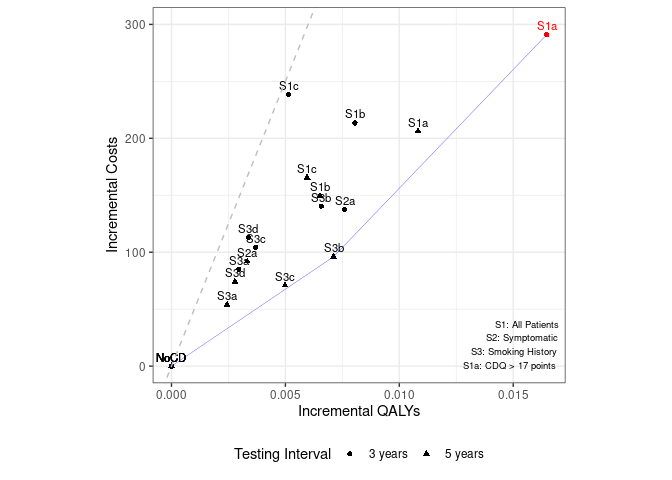
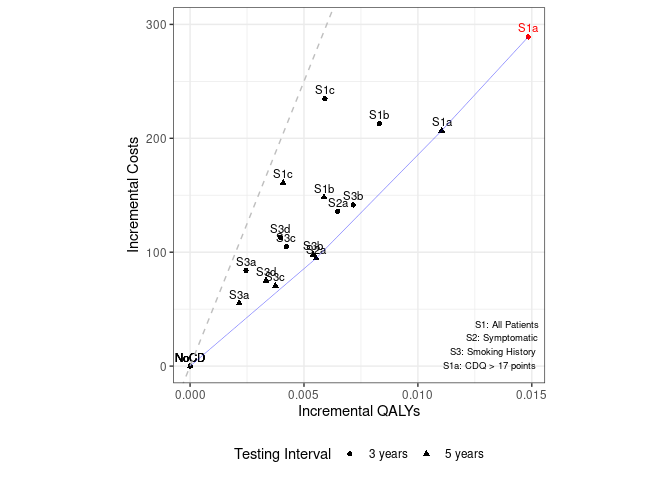
feat(reproduction): process results from 100 million base case

diff --git a/reproduction/scripts/Process_Model_Results.md b/reproduction/scripts/Process_Model_Results.md
@@ -1,6 +1,6 @@
 Process Model Results
 ================
-14 October, 2024
+15 October, 2024
 
 This file processes the model results so they match up as closely as
 possible to those in the publication.
@@ -69,30 +69,30 @@ rbind(ceplane_3y, ceplane_5y) %>%
 
 <div class="kable-table">
 
-| Scenario  |   Agents | PropAgents |        Cost | CostpAgent | CostpAgentExcluded | CostpAgentAll |      QALY | QALYpAgent | QALYpAgentExcluded | QALYpAgentAll | IncrementalCosts | IncrementalQALY |  ICERAdj |     ICER |        INMB | Interval |
-|:----------|---------:|-----------:|------------:|-----------:|-------------------:|--------------:|----------:|-----------:|-------------------:|--------------:|-----------------:|----------------:|---------:|---------:|------------:|:---------|
-| S1NoCDAvg | 37197054 |  1.0000000 | 79930541441 |   2148.841 |              0.000 |      2148.841 | 466645458 |   12.54523 |            0.00000 |      12.54523 |          0.00000 |       0.0000000 |       NA |       NA |   0.0000000 | 3 years  |
-| S1NoCDAvg | 37197054 |  1.0000000 | 79930541441 |   2148.841 |              0.000 |      2148.841 | 466645458 |   12.54523 |            0.00000 |      12.54523 |          0.00000 |       0.0000000 |       NA |       NA |   0.0000000 | 5 years  |
-| S1a       | 37195779 |  1.0000000 | 90753454326 |   2439.886 |              0.000 |      2439.886 | 467242138 |   12.56170 |            0.00000 |      12.56170 |        291.04522 |       0.0164718 | 17669.33 | 17116.09 | 532.5435790 | 3 years  |
-| S1a       | 37197502 |  1.0000000 | 87609315426 |   2355.247 |              0.000 |      2355.247 | 467053611 |   12.55605 |            0.00000 |      12.55605 |        206.40667 |       0.0108217 | 19073.48 | 20089.64 | 334.6763156 | 5 years  |
-| S1b       | 37200476 |  1.0000000 | 87878153022 |   2362.286 |              0.000 |      2362.286 | 466988044 |   12.55328 |            0.00000 |      12.55328 |        213.44510 |       0.0080553 | 26497.34 | 24764.46 | 189.3218597 | 3 years  |
-| S1b       | 37190655 |  1.0000000 | 85474784067 |   2298.287 |              0.000 |      2298.287 | 466807667 |   12.55175 |            0.00000 |      12.55175 |        149.44599 |       0.0065202 | 22920.31 | 25093.04 | 176.5661465 | 5 years  |
-| S1c       | 37192813 |  1.0000000 | 88797560537 |   2387.492 |              0.000 |      2387.492 | 466783360 |   12.55036 |            0.00000 |      12.55036 |        238.65184 |       0.0051384 | 46444.60 | 41646.33 |  18.2691463 | 3 years  |
-| S1c       | 37195162 |  1.0000000 | 86086185363 |   2314.446 |              0.000 |      2314.446 | 466843147 |   12.55118 |            0.00000 |      12.55118 |        165.60516 |       0.0059532 | 27817.85 | 30805.50 | 132.0547739 | 5 years  |
-| S2NoCD    | 22078563 |  0.5935568 | 58731887921 |   2660.132 |           1402.167 |      2148.841 | 270917818 |   12.27063 |           12.94624 |      12.54523 |          0.00000 |       0.0000000 |       NA |       NA |   0.0084027 | 3 years  |
-| S2NoCD    | 22074342 |  0.5934433 | 58922537505 |   2669.277 |           1389.169 |      2148.841 | 270895360 |   12.27196 |           12.94411 |      12.54523 |          0.00000 |       0.0000000 |       NA |       NA |   0.0084027 | 5 years  |
-| S2a       | 22077788 |  0.5935359 | 63840415723 |   2891.613 |           1402.167 |      2286.207 | 271190365 |   12.28340 |           12.94624 |      12.55282 |        137.36611 |       0.0075969 | 18081.98 | 18119.00 | 242.4848714 | 3 years  |
-| S2a       | 22077777 |  0.5935356 | 62347138314 |   2823.977 |           1389.169 |      2240.779 | 271063504 |   12.27766 |           12.94411 |      12.54855 |         91.93817 |       0.0033250 | 27650.44 | 27108.82 |  74.3210751 | 5 years  |
-| S3NoCD    | 17243525 |  0.4635723 | 49933527334 |   2895.784 |           1503.344 |      2148.841 | 193676014 |   11.23181 |           13.68026 |      12.54523 |          0.00000 |       0.0000000 |       NA |       NA |   0.0084027 | 3 years  |
-| S3NoCD    | 17254548 |  0.4638687 | 50064966233 |   2901.552 |           1497.584 |      2148.841 | 193797357 |   11.23167 |           13.68174 |      12.54523 |          0.00000 |       0.0000000 |       NA |       NA |   0.0084027 | 5 years  |
-| S3a       | 17245589 |  0.4636278 | 53097071421 |   3078.878 |           1503.344 |      2233.805 | 193814317 |   11.23849 |           13.68026 |      12.54819 |         84.96483 |       0.0029590 | 28713.97 | 27428.51 |  62.9938915 | 3 years  |
-| S3a       | 17251608 |  0.4637896 | 52066304895 |   3018.055 |           1497.584 |      2202.763 | 193847860 |   11.23651 |           13.68174 |      12.54767 |         53.92205 |       0.0024391 | 22107.45 | 24063.44 |  68.0408589 | 5 years  |
-| S3b       | 17248093 |  0.4636951 | 55163743515 |   3198.252 |           1503.344 |      2289.264 | 193983110 |   11.24664 |           13.68026 |      12.55180 |        140.42373 |       0.0065759 | 21354.32 | 20395.72 | 188.3794023 | 3 years  |
-| S3b       | 17246874 |  0.4636624 | 53626126689 |   3109.324 |           1497.584 |      2244.887 | 193956939 |   11.24592 |           13.68174 |      12.55234 |         96.04666 |       0.0071128 | 13503.33 | 14580.18 | 259.6024694 | 5 years  |
-| S3c       | 17249568 |  0.4637348 | 53820717606 |   3120.120 |           1503.344 |      2253.099 | 193896397 |   11.24065 |           13.68026 |      12.54893 |        104.25841 |       0.0037023 | 28160.79 | 25373.54 |  80.8627246 | 3 years  |
-| S3c       | 17246125 |  0.4636422 | 52687996543 |   3055.063 |           1497.584 |      2219.697 | 193867414 |   11.24122 |           13.68174 |      12.55021 |         70.85627 |       0.0049815 | 14223.79 | 16078.26 | 178.2287927 | 5 years  |
-| S3d       | 17250373 |  0.4637564 | 54140141633 |   3138.491 |           1503.344 |      2261.654 | 193895422 |   11.24007 |           13.68026 |      12.54861 |        112.81322 |       0.0033800 | 33376.80 | 29382.46 |  56.1946409 | 3 years  |
-| S3d       | 17255729 |  0.4639004 | 52823751959 |   3061.230 |           1497.584 |      2222.960 | 193917114 |   11.23784 |           13.68174 |      12.54801 |         74.11923 |       0.0027851 | 26612.42 | 25873.76 |  65.1460215 | 5 years  |
+| Scenario  |   Agents | PropAgents |         Cost | CostpAgent | CostpAgentExcluded | CostpAgentAll |      QALY | QALYpAgent | QALYpAgentExcluded | QALYpAgentAll | IncrementalCosts | IncrementalQALY |  ICERAdj |     ICER |      INMB | Interval |
+|:----------|---------:|-----------:|-------------:|-----------:|-------------------:|--------------:|----------:|-----------:|-------------------:|--------------:|-----------------:|----------------:|---------:|---------:|----------:|:---------|
+| S1NoCDAvg | 74388586 |  1.0000000 | 159925565707 |   2149.867 |              0.000 |      2149.867 | 933240063 |   12.54547 |            0.00000 |      12.54547 |          0.00000 |       0.0000000 |       NA |       NA |   0.00000 | 3 years  |
+| S1NoCDAvg | 74388586 |  1.0000000 | 159925565707 |   2149.867 |              0.000 |      2149.867 | 933240063 |   12.54547 |            0.00000 |      12.54547 |          0.00000 |       0.0000000 |       NA |       NA |   0.00000 | 5 years  |
+| S1a       | 74380275 |  1.0000000 | 181401075128 |   2438.833 |              0.000 |      2438.833 | 934239602 |   12.56031 |            0.00000 |      12.56031 |        288.96609 |       0.0148400 | 19472.10 | 19152.73 | 453.03421 | 3 years  |
+| S1a       | 74386318 |  1.0000000 | 175298229824 |   2356.592 |              0.000 |      2356.592 | 934033198 |   12.55652 |            0.00000 |      12.55652 |        206.72538 |       0.0110449 | 18716.85 | 19145.74 | 345.51881 | 5 years  |
+| S1b       | 74383024 |  1.0000000 | 175747140584 |   2362.732 |              0.000 |      2362.732 | 933787724 |   12.55377 |            0.00000 |      12.55377 |        212.86487 |       0.0083008 | 25643.89 | 24838.02 | 202.17518 | 3 years  |
+| S1b       | 74385413 |  1.0000000 | 170952563916 |   2298.200 |              0.000 |      2298.200 | 933637487 |   12.55135 |            0.00000 |      12.55135 |        148.33311 |       0.0058779 | 25235.73 | 26468.96 | 145.56189 | 5 years  |
+| S1c       | 74393892 |  1.0000000 | 177409072797 |   2384.726 |              0.000 |      2384.726 | 933746980 |   12.55139 |            0.00000 |      12.55139 |        234.85933 |       0.0059192 | 39677.70 | 37796.70 |  61.09955 | 3 years  |
+| S1c       | 74390720 |  1.0000000 | 171904343832 |   2310.830 |              0.000 |      2310.830 | 933570750 |   12.54956 |            0.00000 |      12.54956 |        160.96350 |       0.0040854 | 39399.80 | 42521.81 |  43.30591 | 5 years  |
+| S2NoCD    | 44156404 |  0.5935911 | 117605933755 |   2663.395 |           1399.821 |      2149.867 | 541859031 |   12.27136 |           12.94584 |      12.54547 |          0.00000 |       0.0000000 |       NA |       NA |   0.00000 | 3 years  |
+| S2NoCD    | 44157029 |  0.5935995 | 117807957835 |   2667.932 |           1393.167 |      2149.867 | 541828917 |   12.27050 |           12.94711 |      12.54547 |          0.00000 |       0.0000000 |       NA |       NA |   0.00000 | 5 years  |
+| S2a       | 44164773 |  0.5937036 | 127735308298 |   2892.244 |           1399.821 |      2285.878 | 542449119 |   12.28239 |           12.94584 |      12.55195 |        136.01091 |       0.0064761 | 21002.14 | 20737.20 | 187.79161 | 3 years  |
+| S2a       | 44154576 |  0.5935665 | 124844786047 |   2827.448 |           1393.167 |      2244.508 | 542208652 |   12.27978 |           12.94711 |      12.55101 |         94.64148 |       0.0055317 | 17108.96 | 17185.88 | 181.94301 | 5 years  |
+| S3NoCD    | 34500334 |  0.4637853 |  99842281258 |   2893.951 |           1506.290 |      2149.867 | 387517176 |   11.23227 |           13.68129 |      12.54547 |          0.00000 |       0.0000000 |       NA |       NA |   0.00000 | 3 years  |
+| S3NoCD    | 34491937 |  0.4636724 |  99999943602 |   2899.227 |           1502.021 |      2149.867 | 387401839 |   11.23166 |           13.68131 |      12.54547 |          0.00000 |       0.0000000 |       NA |       NA |   0.00000 | 5 years  |
+| S3a       | 34507415 |  0.4638805 | 106095806862 |   3074.580 |           1506.290 |      2233.789 | 387796823 |   11.23807 |           13.68129 |      12.54793 |         83.92228 |       0.0024570 | 34156.94 | 31147.82 |  38.92579 | 3 years  |
+| S3a       | 34494037 |  0.4637007 | 104115381916 |   3018.359 |           1502.021 |      2205.148 | 387590904 |   11.23646 |           13.68131 |      12.54763 |         55.28112 |       0.0021554 | 25648.14 | 24833.08 |  52.48718 | 5 years  |
+| S3b       | 34499539 |  0.4637746 | 110363699543 |   3198.991 |           1506.290 |      2291.322 | 388038736 |   11.24765 |           13.68129 |      12.55263 |        141.45471 |       0.0071575 | 19763.12 | 19837.73 | 216.42072 | 3 years  |
+| S3b       | 34509196 |  0.4639044 | 107308147373 |   3109.552 |           1502.021 |      2247.762 | 388040453 |   11.24455 |           13.68131 |      12.55088 |         97.89513 |       0.0054106 | 18093.14 | 16319.03 | 172.63598 | 5 years  |
+| S3c       | 34496334 |  0.4637315 | 107627143927 |   3119.959 |           1506.290 |      2254.599 | 387776879 |   11.24110 |           13.68129 |      12.54970 |        104.73230 |       0.0042268 | 24777.92 | 25592.93 | 106.60970 | 3 years  |
+| S3c       | 34504471 |  0.4638409 | 105270593424 |   3050.926 |           1502.021 |      2220.467 | 387852045 |   11.24063 |           13.68131 |      12.54922 |         70.59986 |       0.0037469 | 18842.32 | 16916.05 | 116.74399 | 5 years  |
+| S3d       | 34507664 |  0.4638839 | 108255487965 |   3137.143 |           1506.290 |      2262.817 | 387911628 |   11.24132 |           13.68129 |      12.54943 |        112.94966 |       0.0039545 | 28562.49 | 26887.15 |  84.77408 | 3 years  |
+| S3d       | 34501231 |  0.4637974 | 105602366018 |   3060.829 |           1502.021 |      2224.992 | 387776869 |   11.23951 |           13.68131 |      12.54881 |         75.12527 |       0.0033322 | 22545.40 | 20600.86 |  91.48361 | 5 years  |
 
 </div>
 
@@ -115,25 +115,25 @@ ceplane %>% arrange(Scenario)
 
 <div class="kable-table">
 
-| Scenario  |   Agents | PropAgents |        Cost | CostpAgent | CostpAgentExcluded | CostpAgentAll |      QALY | QALYpAgent | QALYpAgentExcluded | QALYpAgentAll | IncrementalCosts | IncrementalQALY |  ICERAdj |     ICER |      INMB | Interval | Ranking |
-|:----------|---------:|-----------:|------------:|-----------:|-------------------:|--------------:|----------:|-----------:|-------------------:|--------------:|-----------------:|----------------:|---------:|---------:|----------:|:---------|--------:|
-| S1NoCDAvg | 37197054 |  1.0000000 | 79930541441 |   2148.841 |              0.000 |      2148.841 | 466645458 |   12.54523 |            0.00000 |      12.54523 |          0.00000 |       0.0000000 |       NA |       NA |        NA | NA       |      NA |
-| S1a       | 37195779 |  1.0000000 | 90753454326 |   2439.886 |              0.000 |      2439.886 | 467242138 |   12.56170 |            0.00000 |      12.56170 |        291.04522 |       0.0164718 | 17669.33 | 17116.09 | 532.54358 | 3 years  |       1 |
-| S1a       | 37197502 |  1.0000000 | 87609315426 |   2355.247 |              0.000 |      2355.247 | 467053611 |   12.55605 |            0.00000 |      12.55605 |        206.40667 |       0.0108217 | 19073.48 | 20089.64 | 334.67632 | 5 years  |       2 |
-| S1b       | 37200476 |  1.0000000 | 87878153022 |   2362.286 |              0.000 |      2362.286 | 466988044 |   12.55328 |            0.00000 |      12.55328 |        213.44510 |       0.0080553 | 26497.34 | 24764.46 | 189.32186 | 3 years  |       5 |
-| S1b       | 37190655 |  1.0000000 | 85474784067 |   2298.287 |              0.000 |      2298.287 | 466807667 |   12.55175 |            0.00000 |      12.55175 |        149.44599 |       0.0065202 | 22920.31 | 25093.04 | 176.56615 | 5 years  |       8 |
-| S1c       | 37192813 |  1.0000000 | 88797560537 |   2387.492 |              0.000 |      2387.492 | 466783360 |   12.55036 |            0.00000 |      12.55036 |        238.65184 |       0.0051384 | 46444.60 | 41646.33 |  18.26915 | 3 years  |      16 |
-| S1c       | 37195162 |  1.0000000 | 86086185363 |   2314.446 |              0.000 |      2314.446 | 466843147 |   12.55118 |            0.00000 |      12.55118 |        165.60516 |       0.0059532 | 27817.85 | 30805.50 | 132.05477 | 5 years  |       9 |
-| S2a       | 22077788 |  0.5935359 | 63840415723 |   2891.613 |           1402.167 |      2286.207 | 271190365 |   12.28340 |           12.94624 |      12.55282 |        137.36611 |       0.0075969 | 18081.98 | 18119.00 | 242.48487 | 3 years  |       4 |
-| S2a       | 22077777 |  0.5935356 | 62347138314 |   2823.977 |           1389.169 |      2240.779 | 271063504 |   12.27766 |           12.94411 |      12.54855 |         91.93817 |       0.0033250 | 27650.44 | 27108.82 |  74.32108 | 5 years  |      11 |
-| S3a       | 17245589 |  0.4636278 | 53097071421 |   3078.878 |           1503.344 |      2233.805 | 193814317 |   11.23849 |           13.68026 |      12.54819 |         84.96483 |       0.0029590 | 28713.97 | 27428.51 |  62.99389 | 3 years  |      14 |
-| S3a       | 17251608 |  0.4637896 | 52066304895 |   3018.055 |           1497.584 |      2202.763 | 193847860 |   11.23651 |           13.68174 |      12.54767 |         53.92205 |       0.0024391 | 22107.45 | 24063.44 |  68.04086 | 5 years  |      12 |
-| S3b       | 17248093 |  0.4636951 | 55163743515 |   3198.252 |           1503.344 |      2289.264 | 193983110 |   11.24664 |           13.68026 |      12.55180 |        140.42373 |       0.0065759 | 21354.32 | 20395.72 | 188.37940 | 3 years  |       6 |
-| S3b       | 17246874 |  0.4636624 | 53626126689 |   3109.324 |           1497.584 |      2244.887 | 193956939 |   11.24592 |           13.68174 |      12.55234 |         96.04666 |       0.0071128 | 13503.33 | 14580.18 | 259.60247 | 5 years  |       3 |
-| S3c       | 17249568 |  0.4637348 | 53820717606 |   3120.120 |           1503.344 |      2253.099 | 193896397 |   11.24065 |           13.68026 |      12.54893 |        104.25841 |       0.0037023 | 28160.79 | 25373.54 |  80.86272 | 3 years  |      10 |
-| S3c       | 17246125 |  0.4636422 | 52687996543 |   3055.063 |           1497.584 |      2219.697 | 193867414 |   11.24122 |           13.68174 |      12.55021 |         70.85627 |       0.0049815 | 14223.79 | 16078.26 | 178.22879 | 5 years  |       7 |
-| S3d       | 17250373 |  0.4637564 | 54140141633 |   3138.491 |           1503.344 |      2261.654 | 193895422 |   11.24007 |           13.68026 |      12.54861 |        112.81322 |       0.0033800 | 33376.80 | 29382.46 |  56.19464 | 3 years  |      15 |
-| S3d       | 17255729 |  0.4639004 | 52823751959 |   3061.230 |           1497.584 |      2222.960 | 193917114 |   11.23784 |           13.68174 |      12.54801 |         74.11923 |       0.0027851 | 26612.42 | 25873.76 |  65.14602 | 5 years  |      13 |
+| Scenario  |   Agents | PropAgents |         Cost | CostpAgent | CostpAgentExcluded | CostpAgentAll |      QALY | QALYpAgent | QALYpAgentExcluded | QALYpAgentAll | IncrementalCosts | IncrementalQALY |  ICERAdj |     ICER |      INMB | Interval | Ranking |
+|:----------|---------:|-----------:|-------------:|-----------:|-------------------:|--------------:|----------:|-----------:|-------------------:|--------------:|-----------------:|----------------:|---------:|---------:|----------:|:---------|--------:|
+| S1NoCDAvg | 74388586 |  1.0000000 | 159925565707 |   2149.867 |              0.000 |      2149.867 | 933240063 |   12.54547 |            0.00000 |      12.54547 |          0.00000 |       0.0000000 |       NA |       NA |        NA | NA       |      NA |
+| S1a       | 74380275 |  1.0000000 | 181401075128 |   2438.833 |              0.000 |      2438.833 | 934239602 |   12.56031 |            0.00000 |      12.56031 |        288.96609 |       0.0148400 | 19472.10 | 19152.73 | 453.03421 | 3 years  |       1 |
+| S1a       | 74386318 |  1.0000000 | 175298229824 |   2356.592 |              0.000 |      2356.592 | 934033198 |   12.55652 |            0.00000 |      12.55652 |        206.72538 |       0.0110449 | 18716.85 | 19145.74 | 345.51881 | 5 years  |       2 |
+| S1b       | 74383024 |  1.0000000 | 175747140584 |   2362.732 |              0.000 |      2362.732 | 933787724 |   12.55377 |            0.00000 |      12.55377 |        212.86487 |       0.0083008 | 25643.89 | 24838.02 | 202.17518 | 3 years  |       4 |
+| S1b       | 74385413 |  1.0000000 | 170952563916 |   2298.200 |              0.000 |      2298.200 | 933637487 |   12.55135 |            0.00000 |      12.55135 |        148.33311 |       0.0058779 | 25235.73 | 26468.96 | 145.56189 | 5 years  |       8 |
+| S1c       | 74393892 |  1.0000000 | 177409072797 |   2384.726 |              0.000 |      2384.726 | 933746980 |   12.55139 |            0.00000 |      12.55139 |        234.85933 |       0.0059192 | 39677.70 | 37796.70 |  61.09955 | 3 years  |      13 |
+| S1c       | 74390720 |  1.0000000 | 171904343832 |   2310.830 |              0.000 |      2310.830 | 933570750 |   12.54956 |            0.00000 |      12.54956 |        160.96350 |       0.0040854 | 39399.80 | 42521.81 |  43.30591 | 5 years  |      15 |
+| S2a       | 44164773 |  0.5937036 | 127735308298 |   2892.244 |           1399.821 |      2285.878 | 542449119 |   12.28239 |           12.94584 |      12.55195 |        136.01091 |       0.0064761 | 21002.14 | 20737.20 | 187.79161 | 3 years  |       5 |
+| S2a       | 44154576 |  0.5935665 | 124844786047 |   2827.448 |           1393.167 |      2244.508 | 542208652 |   12.27978 |           12.94711 |      12.55101 |         94.64148 |       0.0055317 | 17108.96 | 17185.88 | 181.94301 | 5 years  |       6 |
+| S3a       | 34507415 |  0.4638805 | 106095806862 |   3074.580 |           1506.290 |      2233.789 | 387796823 |   11.23807 |           13.68129 |      12.54793 |         83.92228 |       0.0024570 | 34156.94 | 31147.82 |  38.92579 | 3 years  |      16 |
+| S3a       | 34494037 |  0.4637007 | 104115381916 |   3018.359 |           1502.021 |      2205.148 | 387590904 |   11.23646 |           13.68131 |      12.54763 |         55.28112 |       0.0021554 | 25648.14 | 24833.08 |  52.48718 | 5 years  |      14 |
+| S3b       | 34499539 |  0.4637746 | 110363699543 |   3198.991 |           1506.290 |      2291.322 | 388038736 |   11.24765 |           13.68129 |      12.55263 |        141.45471 |       0.0071575 | 19763.12 | 19837.73 | 216.42072 | 3 years  |       3 |
+| S3b       | 34509196 |  0.4639044 | 107308147373 |   3109.552 |           1502.021 |      2247.762 | 388040453 |   11.24455 |           13.68131 |      12.55088 |         97.89513 |       0.0054106 | 18093.14 | 16319.03 | 172.63598 | 5 years  |       7 |
+| S3c       | 34496334 |  0.4637315 | 107627143927 |   3119.959 |           1506.290 |      2254.599 | 387776879 |   11.24110 |           13.68129 |      12.54970 |        104.73230 |       0.0042268 | 24777.92 | 25592.93 | 106.60970 | 3 years  |      10 |
+| S3c       | 34504471 |  0.4638409 | 105270593424 |   3050.926 |           1502.021 |      2220.467 | 387852045 |   11.24063 |           13.68131 |      12.54922 |         70.59986 |       0.0037469 | 18842.32 | 16916.05 | 116.74399 | 5 years  |       9 |
+| S3d       | 34507664 |  0.4638839 | 108255487965 |   3137.143 |           1506.290 |      2262.817 | 387911628 |   11.24132 |           13.68129 |      12.54943 |        112.94966 |       0.0039545 | 28562.49 | 26887.15 |  84.77408 | 3 years  |      12 |
+| S3d       | 34501231 |  0.4637974 | 105602366018 |   3060.829 |           1502.021 |      2224.992 | 387776869 |   11.23951 |           13.68131 |      12.54881 |         75.12527 |       0.0033322 | 22545.40 | 20600.86 |  91.48361 | 5 years  |      11 |
 
 </div>
 
@@ -181,23 +181,23 @@ ceplane_pretty
 
 | Scenario                         | Testing interval | Costs per patient | QALYs per patient |  ICER | INMB (ranking) |
 |:---------------------------------|:-----------------|:------------------|------------------:|------:|:---------------|
-| S0: No case detection            | NA               | \$2149            |            12.545 |    NA | NA             |
-| (S1a) CDQ ≥ 17 points            | 3 years          | \$2440            |            12.562 | 17669 | 533(1)         |
-| (S1a) CDQ ≥ 17 points            | 5 years          | \$2355            |            12.556 | 19073 | 335(2)         |
-| (S1b) Screening spirometry       | 3 years          | \$2362            |            12.553 | 26497 | 189(5)         |
-| (S1b) Screening spirometry       | 5 years          | \$2298            |            12.552 | 22920 | 177(8)         |
-| (S1c) CDQ + screening spirometry | 3 years          | \$2387            |            12.550 | 46445 | 18(16)         |
-| (S1c) CDQ + screening spirometry | 5 years          | \$2314            |            12.551 | 27818 | 132(9)         |
-| (S2a) Screening spirometry       | 3 years          | \$2286            |            12.553 | 18082 | 242(4)         |
-| (S2a) Screening spirometry       | 5 years          | \$2241            |            12.549 | 27650 | 74(11)         |
-| (S3a) CDQ ≥ 19.5 points          | 3 years          | \$2234            |            12.548 | 28714 | 63(14)         |
-| (S3a) CDQ ≥ 19.5 points          | 5 years          | \$2203            |            12.548 | 22107 | 68(12)         |
-| (S3b) CDQ ≥ 16.5 points          | 3 years          | \$2289            |            12.552 | 21354 | 188(6)         |
-| (S3b) CDQ ≥ 16.5 points          | 5 years          | \$2245            |            12.552 | 13503 | 260(3)         |
-| (S3c) Screening spirometry       | 3 years          | \$2253            |            12.549 | 28161 | 81(10)         |
-| (S3c) Screening spirometry       | 5 years          | \$2220            |            12.550 | 14224 | 178(7)         |
-| (S3d) CDQ + screening spirometry | 3 years          | \$2262            |            12.549 | 33377 | 56(15)         |
-| (S3d) CDQ + screening spirometry | 5 years          | \$2223            |            12.548 | 26612 | 65(13)         |
+| S0: No case detection            | NA               | \$2150            |            12.545 |    NA | NA             |
+| (S1a) CDQ ≥ 17 points            | 3 years          | \$2439            |            12.560 | 19472 | 453(1)         |
+| (S1a) CDQ ≥ 17 points            | 5 years          | \$2357            |            12.557 | 18717 | 346(2)         |
+| (S1b) Screening spirometry       | 3 years          | \$2363            |            12.554 | 25644 | 202(4)         |
+| (S1b) Screening spirometry       | 5 years          | \$2298            |            12.551 | 25236 | 146(8)         |
+| (S1c) CDQ + screening spirometry | 3 years          | \$2385            |            12.551 | 39678 | 61(13)         |
+| (S1c) CDQ + screening spirometry | 5 years          | \$2311            |            12.550 | 39400 | 43(15)         |
+| (S2a) Screening spirometry       | 3 years          | \$2286            |            12.552 | 21002 | 188(5)         |
+| (S2a) Screening spirometry       | 5 years          | \$2245            |            12.551 | 17109 | 182(6)         |
+| (S3a) CDQ ≥ 19.5 points          | 3 years          | \$2234            |            12.548 | 34157 | 39(16)         |
+| (S3a) CDQ ≥ 19.5 points          | 5 years          | \$2205            |            12.548 | 25648 | 52(14)         |
+| (S3b) CDQ ≥ 16.5 points          | 3 years          | \$2291            |            12.553 | 19763 | 216(3)         |
+| (S3b) CDQ ≥ 16.5 points          | 5 years          | \$2248            |            12.551 | 18093 | 173(7)         |
+| (S3c) Screening spirometry       | 3 years          | \$2255            |            12.550 | 24778 | 107(10)        |
+| (S3c) Screening spirometry       | 5 years          | \$2220            |            12.549 | 18842 | 117(9)         |
+| (S3d) CDQ + screening spirometry | 3 years          | \$2263            |            12.549 | 28562 | 85(12)         |
+| (S3d) CDQ + screening spirometry | 5 years          | \$2225            |            12.549 | 22545 | 91(11)         |
 
 </div>
 
@@ -224,23 +224,23 @@ ceplane_prep
 
 | Scenario | Interval | CostpAgentAll | QALYpAgentAll | ICERAdj | INMB | Ranking |
 |:---------|:---------|--------------:|--------------:|--------:|-----:|--------:|
-| S0       | NA       |          2149 |        12.545 |      NA |   NA |      NA |
-| S1a      | 3 years  |          2440 |        12.562 |   17669 |  533 |       1 |
-| S1b      | 3 years  |          2362 |        12.553 |   26497 |  189 |       5 |
-| S1c      | 3 years  |          2387 |        12.550 |   46445 |   18 |      16 |
-| S2a      | 3 years  |          2286 |        12.553 |   18082 |  242 |       4 |
-| S3a      | 3 years  |          2234 |        12.548 |   28714 |   63 |      14 |
-| S3b      | 3 years  |          2289 |        12.552 |   21354 |  188 |       6 |
-| S3c      | 3 years  |          2253 |        12.549 |   28161 |   81 |      10 |
-| S3d      | 3 years  |          2262 |        12.549 |   33377 |   56 |      15 |
-| S1a      | 5 years  |          2355 |        12.556 |   19073 |  335 |       2 |
-| S1b      | 5 years  |          2298 |        12.552 |   22920 |  177 |       8 |
-| S1c      | 5 years  |          2314 |        12.551 |   27818 |  132 |       9 |
-| S2a      | 5 years  |          2241 |        12.549 |   27650 |   74 |      11 |
-| S3a      | 5 years  |          2203 |        12.548 |   22107 |   68 |      12 |
-| S3b      | 5 years  |          2245 |        12.552 |   13503 |  260 |       3 |
-| S3c      | 5 years  |          2220 |        12.550 |   14224 |  178 |       7 |
-| S3d      | 5 years  |          2223 |        12.548 |   26612 |   65 |      13 |
+| S0       | NA       |          2150 |        12.545 |      NA |   NA |      NA |
+| S1a      | 3 years  |          2439 |        12.560 |   19472 |  453 |       1 |
+| S1b      | 3 years  |          2363 |        12.554 |   25644 |  202 |       4 |
+| S1c      | 3 years  |          2385 |        12.551 |   39678 |   61 |      13 |
+| S2a      | 3 years  |          2286 |        12.552 |   21002 |  188 |       5 |
+| S3a      | 3 years  |          2234 |        12.548 |   34157 |   39 |      16 |
+| S3b      | 3 years  |          2291 |        12.553 |   19763 |  216 |       3 |
+| S3c      | 3 years  |          2255 |        12.550 |   24778 |  107 |      10 |
+| S3d      | 3 years  |          2263 |        12.549 |   28562 |   85 |      12 |
+| S1a      | 5 years  |          2357 |        12.557 |   18717 |  346 |       2 |
+| S1b      | 5 years  |          2298 |        12.551 |   25236 |  146 |       8 |
+| S1c      | 5 years  |          2311 |        12.550 |   39400 |   43 |      15 |
+| S2a      | 5 years  |          2245 |        12.551 |   17109 |  182 |       6 |
+| S3a      | 5 years  |          2205 |        12.548 |   25648 |   52 |      14 |
+| S3b      | 5 years  |          2248 |        12.551 |   18093 |  173 |       7 |
+| S3c      | 5 years  |          2220 |        12.549 |   18842 |  117 |       9 |
+| S3d      | 5 years  |          2225 |        12.549 |   22545 |   91 |      11 |
 
 </div>
 
@@ -383,23 +383,23 @@ ceplane_compare
 
 |     | Scenario | Interval | CostpAgent_paper | CostpAgentAll | CostpAgentAll_repo | CostMyDiff | CostMyPerc | CostRepoDiff | CostRepoPerc | QALYpAgent_paper | QALYpAgentAll | QALYpAgentAll_repo | QALYMyDiff | QALYMyPerc | QALYRepoDiff | QALYRepoPerc | ICER_paper | ICERAdj | ICERAdj_repo | ICERMyDiff | ICERMyPerc | ICERRepoDiff | ICERRepoPerc | IncrementalNMB_paper | INMB | INMB_repo | INMBMyDiff | INMBMyPerc | INMBRepoDiff | INMBRepoPerc |
 |:----|:---------|:---------|-----------------:|--------------:|-------------------:|-----------:|:-----------|-------------:|:-------------|-----------------:|--------------:|-------------------:|-----------:|:-----------|-------------:|:-------------|-----------:|--------:|-------------:|-----------:|:-----------|-------------:|:-------------|---------------------:|-----:|----------:|-----------:|:-----------|-------------:|:-------------|
-| 1   | S0       | NA       |             2151 |          2149 |               2151 |          2 | 0.1%       |            0 | 0.0%         |           12.546 |        12.545 |             12.545 |      0.001 | 0%         |        0.001 | 0%           |         NA |      NA |           NA |         NA | NA         |           NA | NA           |                   NA |   NA |         0 |         NA | NA         |           NA | NA           |
-| 17  | S1a      | 3 years  |             2438 |          2440 |               2439 |         -2 | -0.1%      |           -1 | 0.0%         |           12.560 |        12.562 |             12.560 |     -0.002 | 0%         |        0.000 | 0%           |      19632 |   17669 |        19665 |       1963 | 11.1%      |          -33 | -0.2%        |                  444 |  533 |       446 |        -89 | -16.7%     |           -2 | -0.40%       |
-| 18  | S1a      | 5 years  |             2356 |          2355 |               2355 |          1 | 0.0%       |            1 | 0.0%         |           12.556 |        12.556 |             12.557 |      0.000 | 0%         |       -0.001 | 0%           |      19847 |   19073 |        16600 |        774 | 4.1%       |         3247 | 19.6%        |                  312 |  335 |       411 |        -23 | -6.9%      |          -99 | -24.10%      |
-| 19  | S1b      | 3 years  |             2363 |          2362 |               2365 |          1 | 0.0%       |           -2 | -0.1%        |           12.554 |        12.553 |             12.552 |      0.001 | 0%         |        0.002 | 0%           |      25894 |   26497 |        31076 |       -603 | -2.3%      |        -5182 | -16.7%       |                  198 |  189 |       131 |          9 | 4.8%       |           67 | 51.10%       |
-| 20  | S1b      | 5 years  |             2296 |          2298 |               2298 |         -2 | -0.1%      |           -2 | -0.1%        |           12.552 |        12.552 |             12.551 |      0.000 | 0%         |        0.001 | 0%           |      23187 |   22920 |        25501 |        267 | 1.2%       |        -2314 | -9.1%        |                  168 |  177 |       142 |         -9 | -5.1%      |           26 | 18.30%       |
-| 21  | S1c      | 3 years  |             2386 |          2387 |               2386 |         -1 | 0.0%       |            0 | 0.0%         |           12.551 |        12.550 |             12.551 |      0.001 | 0%         |        0.000 | 0%           |      46956 |   46445 |        42697 |        511 | 1.1%       |         4259 | 10.0%        |                   15 |   18 |        40 |         -3 | -16.7%     |          -25 | -62.50%      |
-| 22  | S1c      | 5 years  |             2313 |          2314 |               2311 |         -1 | 0.0%       |            2 | 0.1%         |           12.550 |        12.551 |             12.551 |     -0.001 | 0%         |       -0.001 | 0%           |      38673 |   27818 |        29600 |      10855 | 39.0%      |         9073 | 30.7%        |                   47 |  132 |       110 |        -85 | -64.4%     |          -63 | -57.30%      |
-| 23  | S2a      | 3 years  |             2286 |          2286 |               2287 |          0 | 0.0%       |           -1 | 0.0%         |           12.553 |        12.553 |             12.552 |      0.000 | 0%         |        0.001 | 0%           |      18908 |   18082 |        21184 |        826 | 4.6%       |        -2276 | -10.7%       |                  223 |  242 |       186 |        -19 | -7.9%      |           37 | 19.90%       |
-| 24  | S2a      | 5 years  |             2246 |          2241 |               2245 |          5 | 0.2%       |            1 | 0.0%         |           12.551 |        12.549 |             12.550 |      0.002 | 0%         |        0.001 | 0%           |      17514 |   27650 |        20394 |     -10136 | -36.7%     |        -2880 | -14.1%       |                  176 |   74 |       137 |        102 | 137.8%     |           39 | 28.50%       |
-| 25  | S3a      | 3 years  |             2234 |          2234 |               2232 |          0 | 0.0%       |            2 | 0.1%         |           12.548 |        12.548 |             12.548 |      0.000 | 0%         |        0.000 | 0%           |      30366 |   28714 |        32247 |       1652 | 5.8%       |        -1881 | -5.8%        |                   54 |   63 |        45 |         -9 | -14.3%     |            9 | 20.00%       |
-| 26  | S3a      | 5 years  |             2207 |          2203 |               2207 |          4 | 0.2%       |            0 | 0.0%         |           12.548 |        12.548 |             12.548 |      0.000 | 0%         |        0.000 | 0%           |      22636 |   22107 |        22694 |        529 | 2.4%       |          -58 | -0.3%        |                   68 |   68 |        67 |          0 | 0.0%       |            1 | 1.50%        |
-| 27  | S3b      | 3 years  |             2292 |          2289 |               2289 |          3 | 0.1%       |            3 | 0.1%         |           12.553 |        12.552 |             12.553 |      0.001 | 0%         |        0.000 | 0%           |      18438 |   21354 |        18157 |      -2916 | -13.7%     |          281 | 1.5%         |                  241 |  188 |       243 |         53 | 28.2%      |           -2 | -0.80%       |
-| 28  | S3b      | 5 years  |             2250 |          2245 |               2248 |          5 | 0.2%       |            2 | 0.1%         |           12.552 |        12.552 |             12.551 |      0.000 | 0%         |        0.001 | 0%           |      16251 |   13503 |        17325 |       2748 | 20.4%      |        -1074 | -6.2%        |                  206 |  260 |       183 |        -54 | -20.8%     |           23 | 12.60%       |
-| 29  | S3c      | 3 years  |             2256 |          2253 |               2255 |          3 | 0.1%       |            1 | 0.0%         |           12.550 |        12.549 |             12.550 |      0.001 | 0%         |        0.000 | 0%           |      23972 |   28161 |        20700 |      -4189 | -14.9%     |         3272 | 15.8%        |                  114 |   81 |       148 |         33 | 40.7%      |          -34 | -23.00%      |
-| 30  | S3c      | 5 years  |             2224 |          2220 |               2221 |          4 | 0.2%       |            3 | 0.1%         |           12.549 |        12.550 |             12.549 |     -0.001 | 0%         |        0.000 | 0%           |      20278 |   14224 |        19250 |       6054 | 42.6%      |         1028 | 5.3%         |                  107 |  178 |       113 |        -71 | -39.9%     |           -6 | -5.30%       |
-| 31  | S3d      | 3 years  |             2263 |          2262 |               2261 |          1 | 0.0%       |            2 | 0.1%         |           12.549 |        12.549 |             12.550 |      0.000 | 0%         |       -0.001 | 0%           |      28245 |   33377 |        23462 |      -5132 | -15.4%     |         4783 | 20.4%        |                   86 |   56 |       124 |         30 | 53.6%      |          -38 | -30.60%      |
-| 32  | S3d      | 5 years  |             2227 |          2223 |               2226 |          4 | 0.2%       |            1 | 0.0%         |           12.548 |        12.548 |             12.548 |      0.000 | 0%         |        0.000 | 0%           |      27591 |   26612 |        26517 |        979 | 3.7%       |         1074 | 4.1%         |                   62 |   65 |        67 |         -3 | -4.6%      |           -5 | -7.50%       |
+| 1   | S0       | NA       |             2151 |          2150 |               2151 |          1 | 0.0%       |            0 | 0.0%         |           12.546 |        12.545 |             12.545 |      0.001 | 0%         |        0.001 | 0%           |         NA |      NA |           NA |         NA | NA         |           NA | NA           |                   NA |   NA |         0 |         NA | NA         |           NA | NA           |
+| 17  | S1a      | 3 years  |             2438 |          2439 |               2439 |         -1 | 0.0%       |           -1 | 0.0%         |           12.560 |        12.560 |             12.560 |      0.000 | 0%         |        0.000 | 0%           |      19632 |   19472 |        19665 |        160 | 0.8%       |          -33 | -0.2%        |                  444 |  453 |       446 |         -9 | -2.0%      |           -2 | -0.40%       |
+| 18  | S1a      | 5 years  |             2356 |          2357 |               2355 |         -1 | 0.0%       |            1 | 0.0%         |           12.556 |        12.557 |             12.557 |     -0.001 | 0%         |       -0.001 | 0%           |      19847 |   18717 |        16600 |       1130 | 6.0%       |         3247 | 19.6%        |                  312 |  346 |       411 |        -34 | -9.8%      |          -99 | -24.10%      |
+| 19  | S1b      | 3 years  |             2363 |          2363 |               2365 |          0 | 0.0%       |           -2 | -0.1%        |           12.554 |        12.554 |             12.552 |      0.000 | 0%         |        0.002 | 0%           |      25894 |   25644 |        31076 |        250 | 1.0%       |        -5182 | -16.7%       |                  198 |  202 |       131 |         -4 | -2.0%      |           67 | 51.10%       |
+| 20  | S1b      | 5 years  |             2296 |          2298 |               2298 |         -2 | -0.1%      |           -2 | -0.1%        |           12.552 |        12.551 |             12.551 |      0.001 | 0%         |        0.001 | 0%           |      23187 |   25236 |        25501 |      -2049 | -8.1%      |        -2314 | -9.1%        |                  168 |  146 |       142 |         22 | 15.1%      |           26 | 18.30%       |
+| 21  | S1c      | 3 years  |             2386 |          2385 |               2386 |          1 | 0.0%       |            0 | 0.0%         |           12.551 |        12.551 |             12.551 |      0.000 | 0%         |        0.000 | 0%           |      46956 |   39678 |        42697 |       7278 | 18.3%      |         4259 | 10.0%        |                   15 |   61 |        40 |        -46 | -75.4%     |          -25 | -62.50%      |
+| 22  | S1c      | 5 years  |             2313 |          2311 |               2311 |          2 | 0.1%       |            2 | 0.1%         |           12.550 |        12.550 |             12.551 |      0.000 | 0%         |       -0.001 | 0%           |      38673 |   39400 |        29600 |       -727 | -1.8%      |         9073 | 30.7%        |                   47 |   43 |       110 |          4 | 9.3%       |          -63 | -57.30%      |
+| 23  | S2a      | 3 years  |             2286 |          2286 |               2287 |          0 | 0.0%       |           -1 | 0.0%         |           12.553 |        12.552 |             12.552 |      0.001 | 0%         |        0.001 | 0%           |      18908 |   21002 |        21184 |      -2094 | -10.0%     |        -2276 | -10.7%       |                  223 |  188 |       186 |         35 | 18.6%      |           37 | 19.90%       |
+| 24  | S2a      | 5 years  |             2246 |          2245 |               2245 |          1 | 0.0%       |            1 | 0.0%         |           12.551 |        12.551 |             12.550 |      0.000 | 0%         |        0.001 | 0%           |      17514 |   17109 |        20394 |        405 | 2.4%       |        -2880 | -14.1%       |                  176 |  182 |       137 |         -6 | -3.3%      |           39 | 28.50%       |
+| 25  | S3a      | 3 years  |             2234 |          2234 |               2232 |          0 | 0.0%       |            2 | 0.1%         |           12.548 |        12.548 |             12.548 |      0.000 | 0%         |        0.000 | 0%           |      30366 |   34157 |        32247 |      -3791 | -11.1%     |        -1881 | -5.8%        |                   54 |   39 |        45 |         15 | 38.5%      |            9 | 20.00%       |
+| 26  | S3a      | 5 years  |             2207 |          2205 |               2207 |          2 | 0.1%       |            0 | 0.0%         |           12.548 |        12.548 |             12.548 |      0.000 | 0%         |        0.000 | 0%           |      22636 |   25648 |        22694 |      -3012 | -11.7%     |          -58 | -0.3%        |                   68 |   52 |        67 |         16 | 30.8%      |            1 | 1.50%        |
+| 27  | S3b      | 3 years  |             2292 |          2291 |               2289 |          1 | 0.0%       |            3 | 0.1%         |           12.553 |        12.553 |             12.553 |      0.000 | 0%         |        0.000 | 0%           |      18438 |   19763 |        18157 |      -1325 | -6.7%      |          281 | 1.5%         |                  241 |  216 |       243 |         25 | 11.6%      |           -2 | -0.80%       |
+| 28  | S3b      | 5 years  |             2250 |          2248 |               2248 |          2 | 0.1%       |            2 | 0.1%         |           12.552 |        12.551 |             12.551 |      0.001 | 0%         |        0.001 | 0%           |      16251 |   18093 |        17325 |      -1842 | -10.2%     |        -1074 | -6.2%        |                  206 |  173 |       183 |         33 | 19.1%      |           23 | 12.60%       |
+| 29  | S3c      | 3 years  |             2256 |          2255 |               2255 |          1 | 0.0%       |            1 | 0.0%         |           12.550 |        12.550 |             12.550 |      0.000 | 0%         |        0.000 | 0%           |      23972 |   24778 |        20700 |       -806 | -3.3%      |         3272 | 15.8%        |                  114 |  107 |       148 |          7 | 6.5%       |          -34 | -23.00%      |
+| 30  | S3c      | 5 years  |             2224 |          2220 |               2221 |          4 | 0.2%       |            3 | 0.1%         |           12.549 |        12.549 |             12.549 |      0.000 | 0%         |        0.000 | 0%           |      20278 |   18842 |        19250 |       1436 | 7.6%       |         1028 | 5.3%         |                  107 |  117 |       113 |        -10 | -8.5%      |           -6 | -5.30%       |
+| 31  | S3d      | 3 years  |             2263 |          2263 |               2261 |          0 | 0.0%       |            2 | 0.1%         |           12.549 |        12.549 |             12.550 |      0.000 | 0%         |       -0.001 | 0%           |      28245 |   28562 |        23462 |       -317 | -1.1%      |         4783 | 20.4%        |                   86 |   85 |       124 |          1 | 1.2%       |          -38 | -30.60%      |
+| 32  | S3d      | 5 years  |             2227 |          2225 |               2226 |          2 | 0.1%       |            1 | 0.0%         |           12.548 |        12.549 |             12.548 |     -0.001 | 0%         |        0.000 | 0%           |      27591 |   22545 |        26517 |       5046 | 22.4%      |         1074 | 4.1%         |                   62 |   91 |        67 |        -29 | -31.9%     |           -5 | -7.50%       |
 
 </div>
 
@@ -453,8 +453,9 @@ frontier
 | Scenario | IncrementalCosts | IncrementalQALY |
 |:---------|-----------------:|----------------:|
 | NoCD     |          0.00000 |       0.0000000 |
-| S3b      |         96.04666 |       0.0071128 |
-| S1a      |        291.04522 |       0.0164718 |
+| S2a      |         94.64148 |       0.0055317 |
+| S1a      |        206.72538 |       0.0110449 |
+| S1a      |        288.96609 |       0.0148400 |
 
 </div>
 
